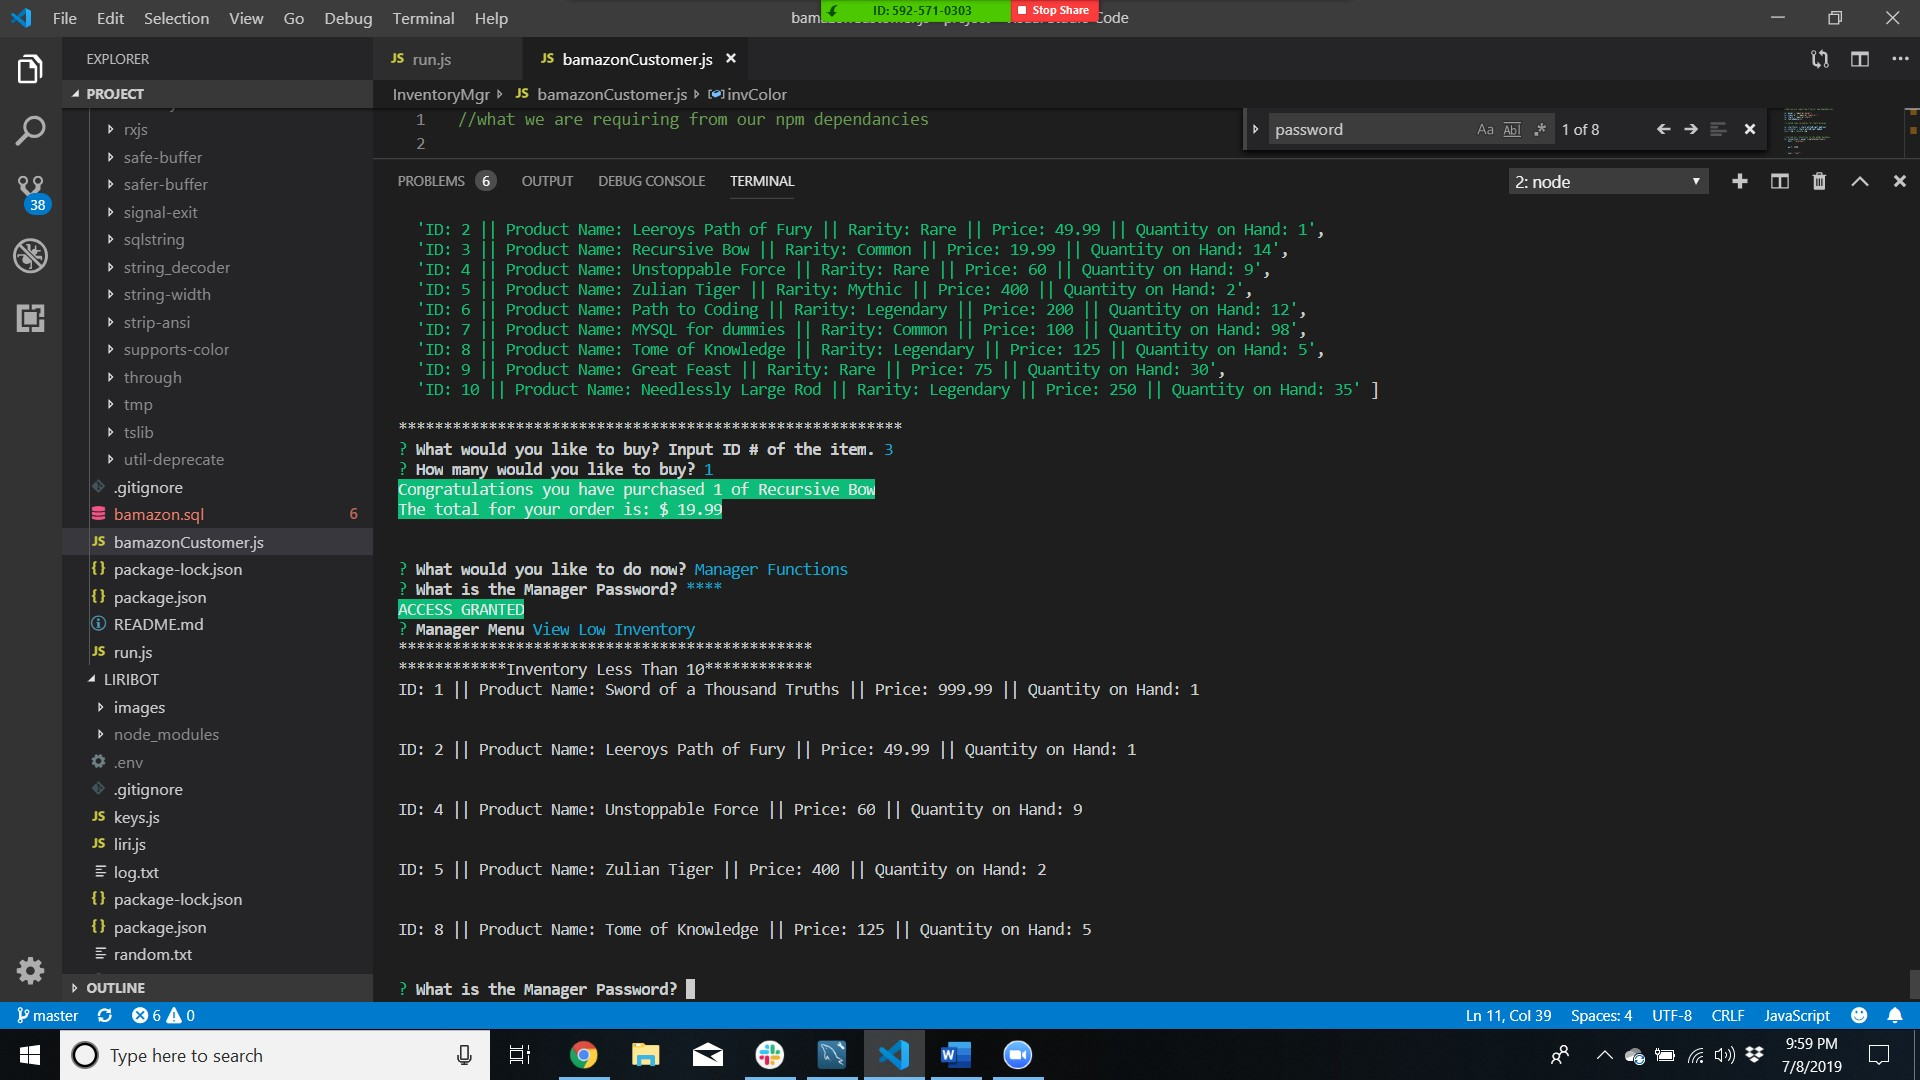
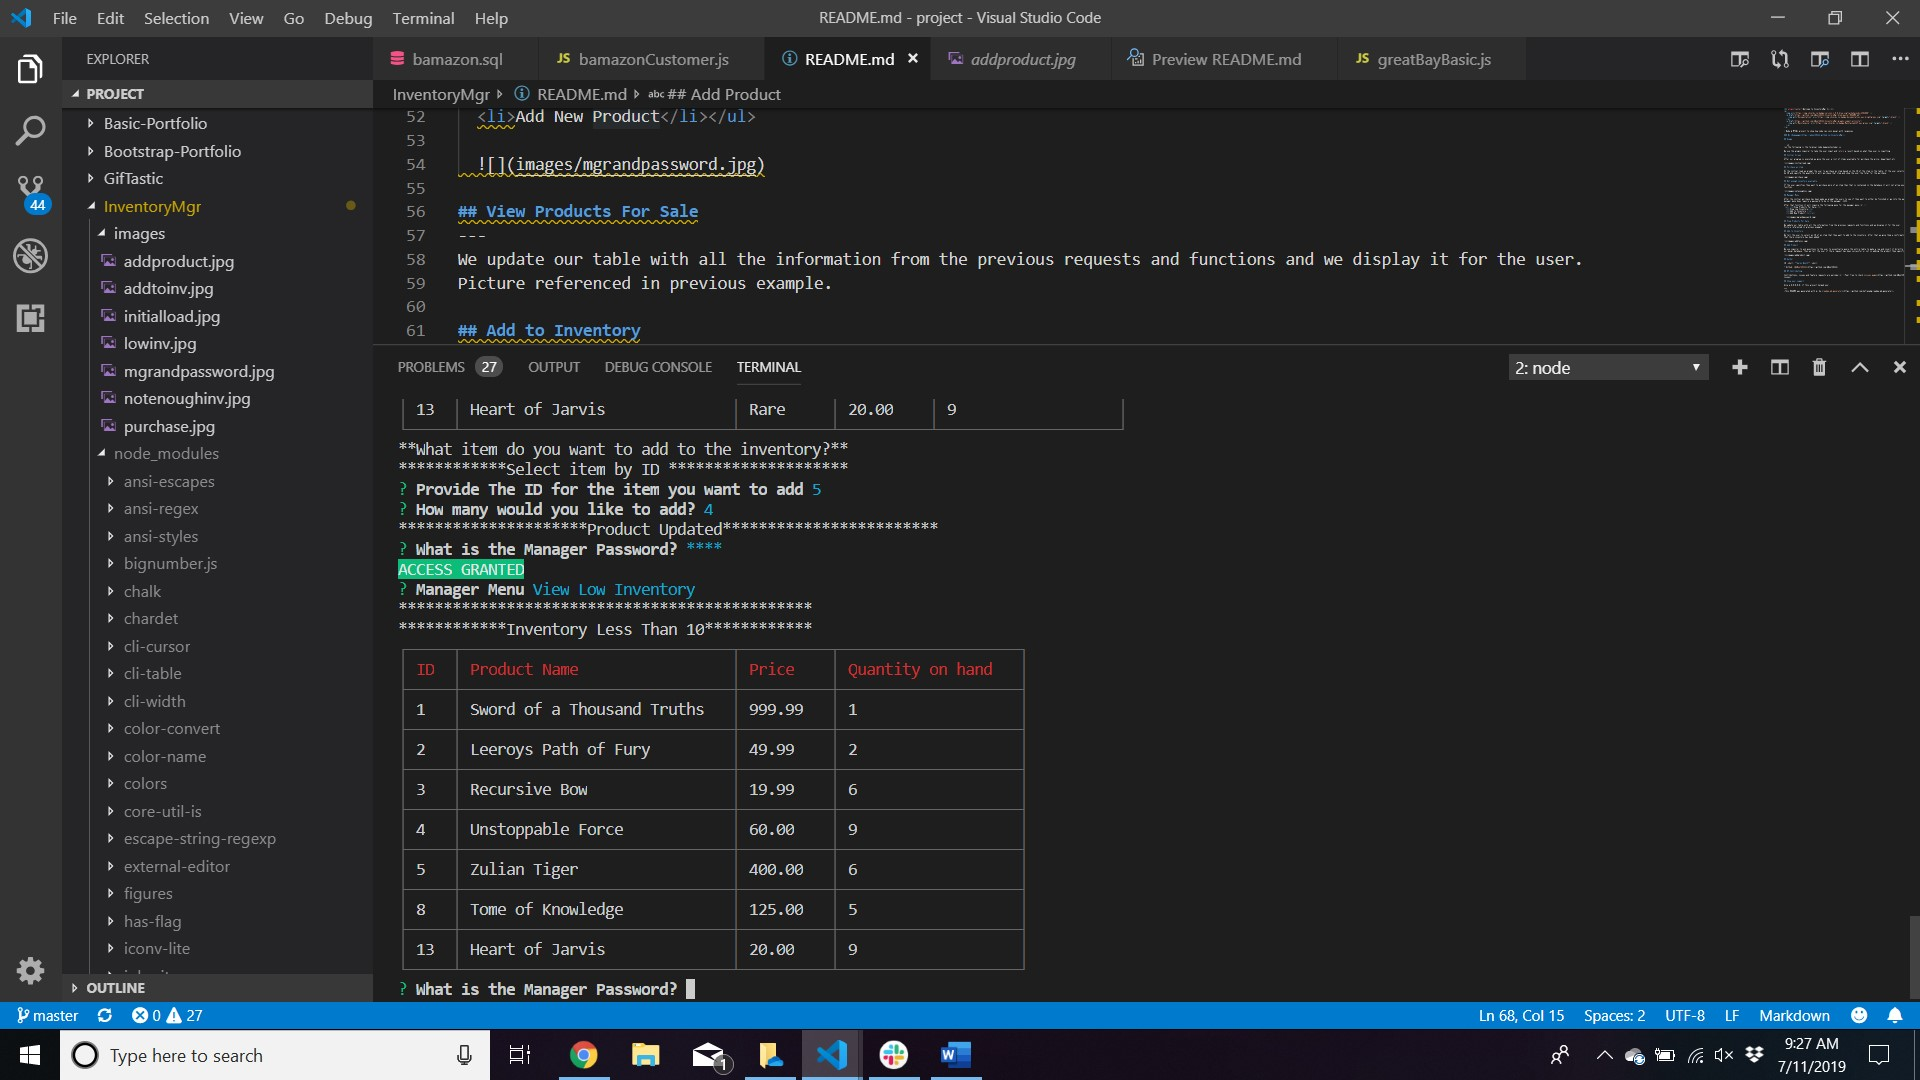
updated screenshots on readme for the cli-table

diff --git a/bamazonCustomer.js b/bamazonCustomer.js
@@ -104,7 +104,7 @@ function afterConnection() {
                         )
                         //logging the results of the purchase and the amount with literals! They are a life saver for this project
                         log(startColor.bold(`Congratulations you have purchased ${resp.itemqty} of ${resultArray[resp.choices -1]}`))
-                        log(startColor.bold(`The total for your order is: $ ${total}`))
+                        log(startColor.bold(`The total for your order is: $ ${total.toFixed(2)}`))
                         log('\n')
                     }
                     //after the initial purchase is made we prompt for what they want to do next.
@@ -275,6 +275,7 @@ function afterConnection() {
                 function (err, resp) {
                     //letting the user know the product has been added
                    log(startColor.bold("*****************Your Product Has Been Added***********************"))
+                   
                     if (err) throw err;
                     // executing the callback for the manager menu
                     managerFunction(table);
@@ -308,7 +309,7 @@ function afterConnection() {
                 }],
                 function (err, resp) {
                     if (err) throw err;
-                    console.log('*********************Product Updated************************')
+                    log(startColor.bold('*********************Product Updated************************'))
                     // executing a callback from the manager function menu
                     managerFunction(table);
                 })

diff --git a/README.md b/README.md
@@ -43,7 +43,10 @@ If the user specifies they want to purchase more of an item than that is contain
 ## Manager Menu
 ---
 After the initial purchase has been made we prompt the users to see if they want to either be finished or go into the manager menu. The 
-manager menu does require a password to be in the manager :1234.
+manager menu does require a password to be in the manager :1234. If the user does not input the correct passwor they will not be able to go into the manager menu.
+
+
+![](images/mgrandpassword2.jpg)
 
 After that function it will inquire the following menu for the manager menu:<br />
  <ul> <li>View Products For Sale</li>
